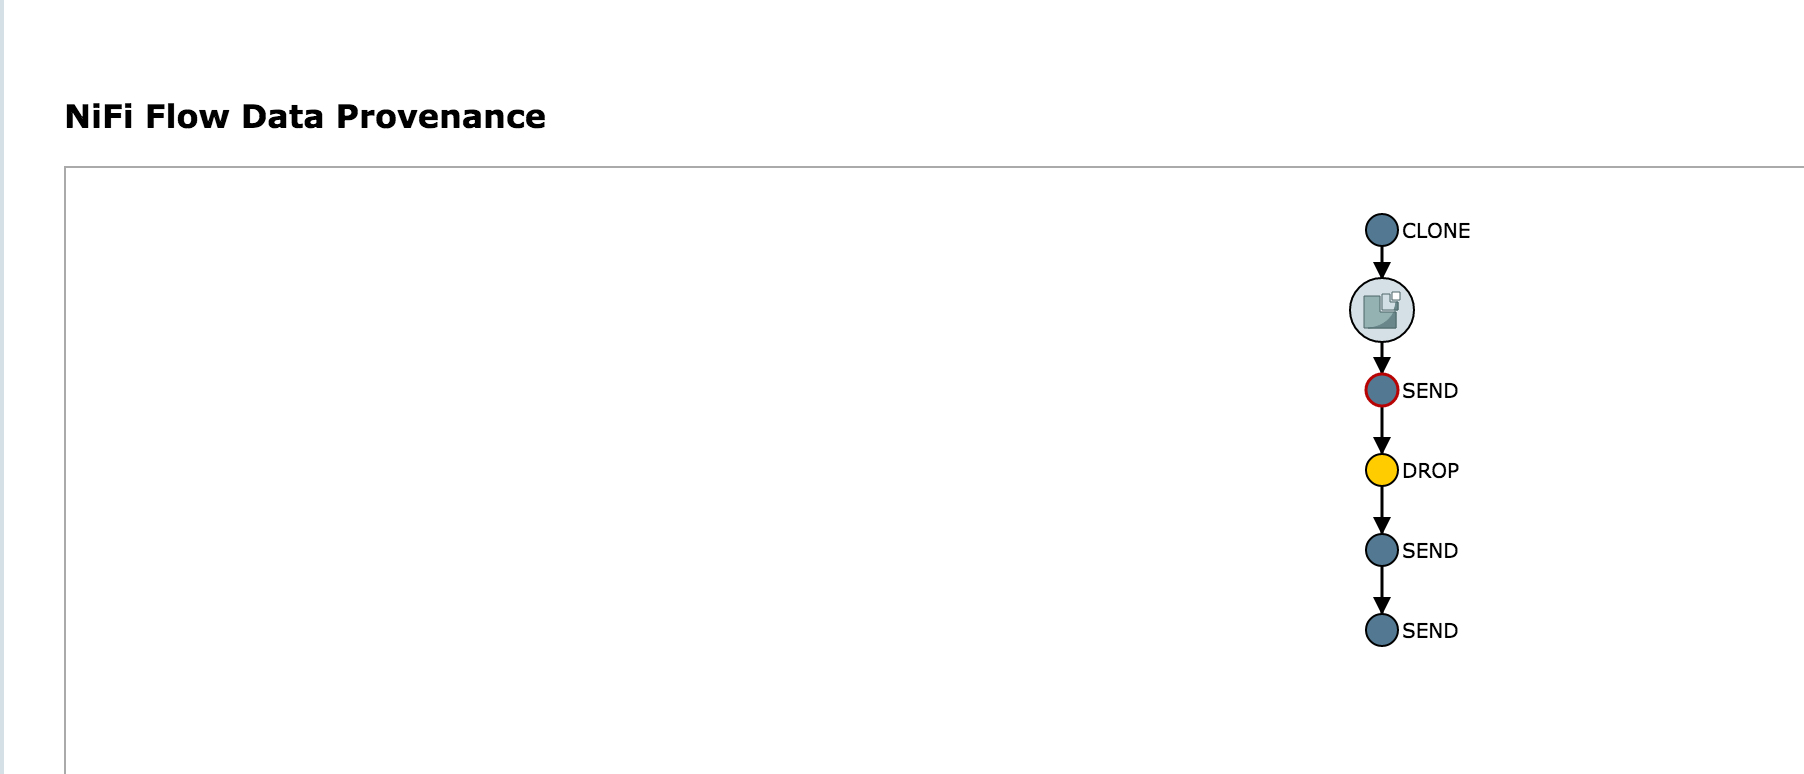
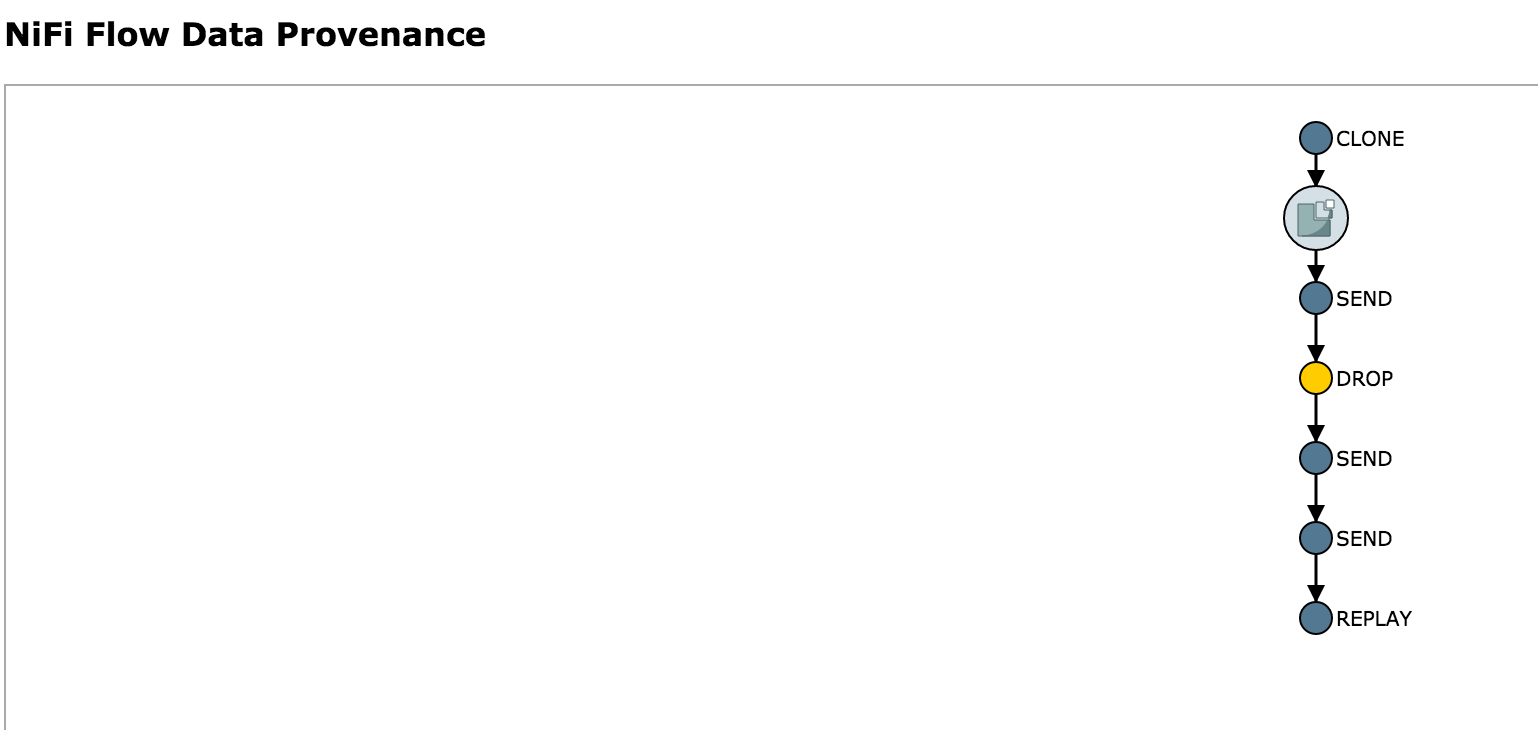
added provenance screenshots

diff --git a/README.md b/README.md
@@ -172,7 +172,7 @@ http://sandbox.hortonworks.com:9090/nifi
     ![Image](../master/screenshots/provenance-list-2.png?raw=true)
     - Re-open the the provenance window on the row you you had originally selected
     ![Image](../master/screenshots/provenance-graph2.png?raw=true)
-    - Notice that by viewing the tweet, you changed the provenance graph of this event
+    - Notice that by viewing the tweet, you changed the provenance graph of this event: there are additional Send events
     
 - You should also see Nifi metrics in Ambari (assuming you started Ambari metrics earlier)
 ![Image](../master/screenshots/screenshot-nifi-stack.png?raw=true)
